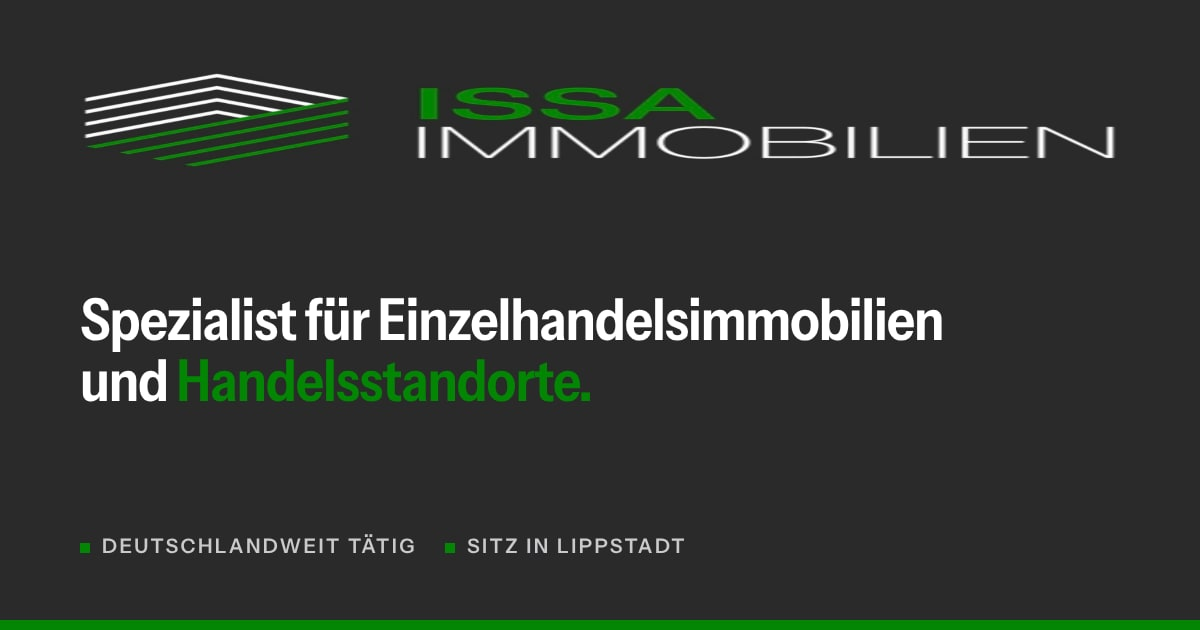
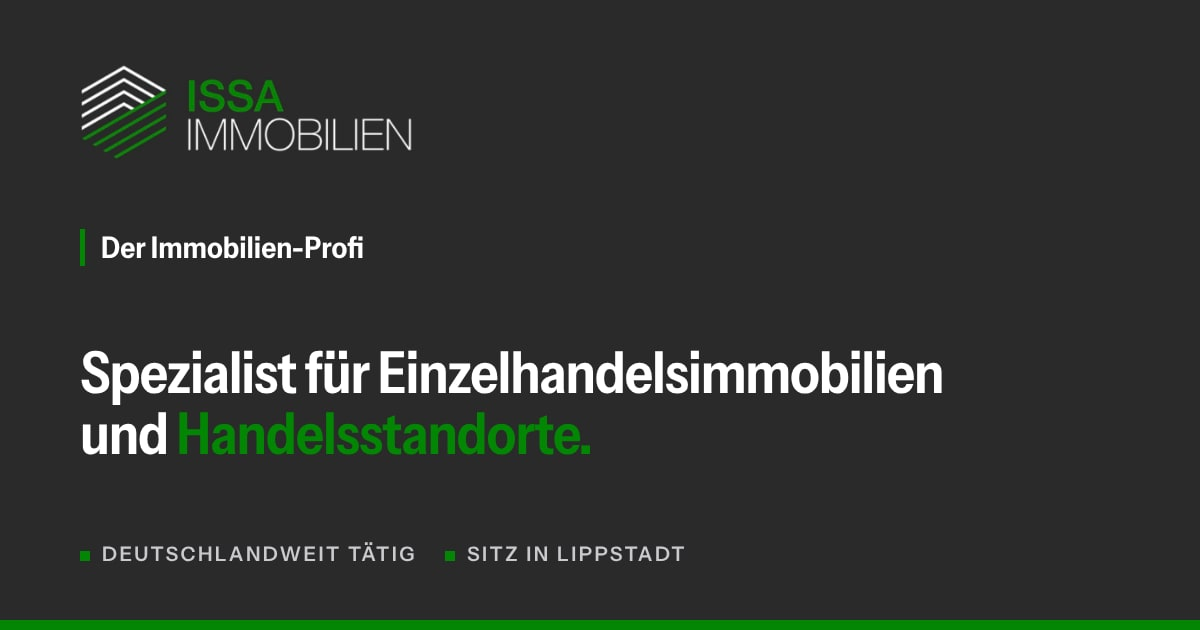
Markenspruch „Der Immobilien-Profi“ prominent einbinden
- Hero: Siegel am Hauptbild (Desktop), Spruchzeile über der Headline (Smartphone)
- Header: Spruch neben dem Logo auf großen Bildschirmen
- Footer, Seitentitel, Meta-Beschreibung, JSON-LD (slogan) und OG-Bild
- OG-Bild: Logo wird nicht mehr verzerrt dargestellt

Claude-Session: https://claude.ai/code/session_01MvCPekcpZceXya5e5ZKaqS

diff --git a/issa-immobilien/src/data/site.ts b/issa-immobilien/src/data/site.ts
@@ -8,6 +8,7 @@
 export const company = {
   name: 'Issa Immobilien',
   owner: 'Sami Issa',
+  slogan: 'Der Immobilien-Profi',
   positioning: 'Spezialist für Einzelhandelsimmobilien und Handelsstandorte',
   area: 'Deutschlandweit',
   street: 'Arendsstr. 21',
